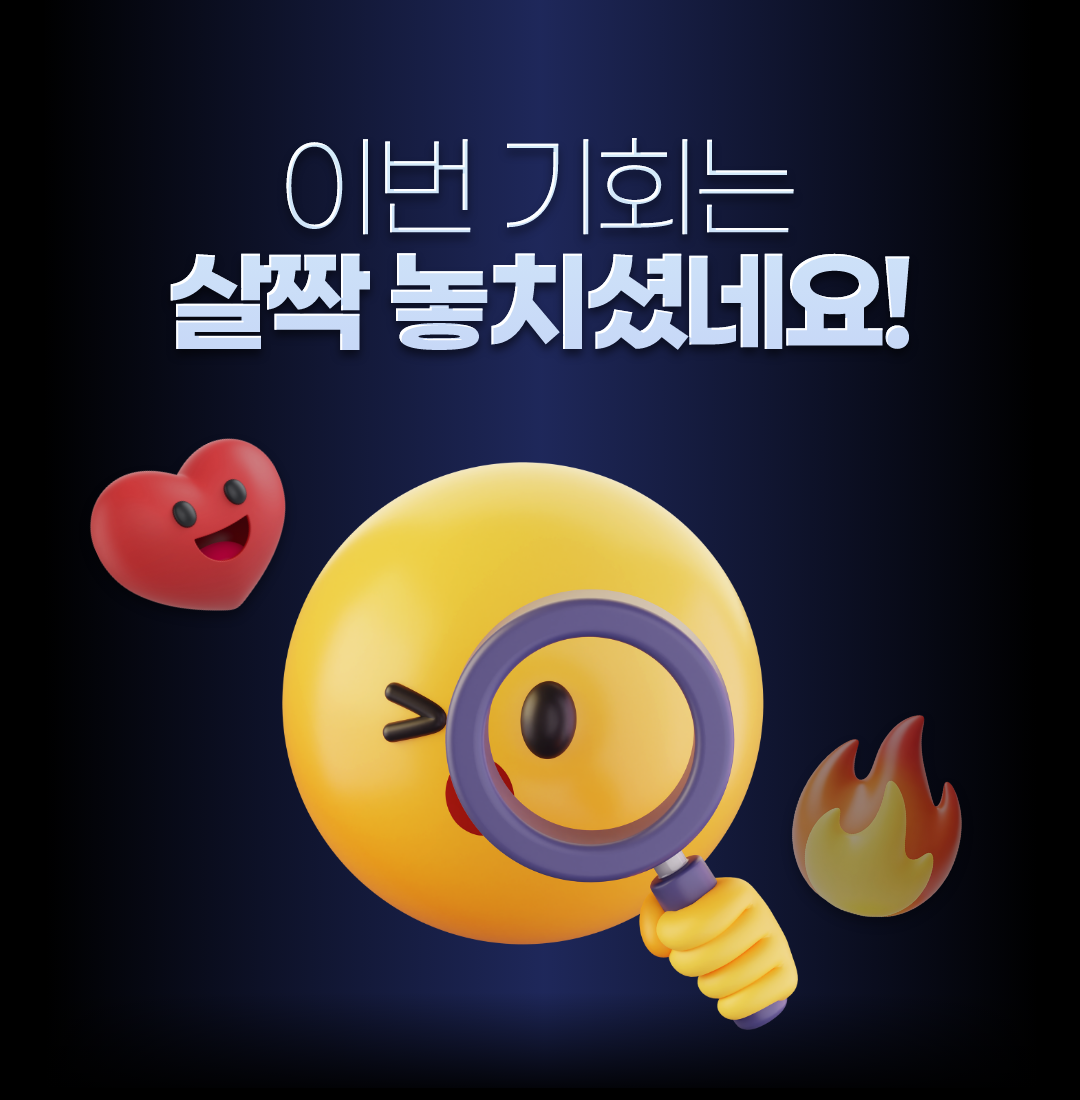
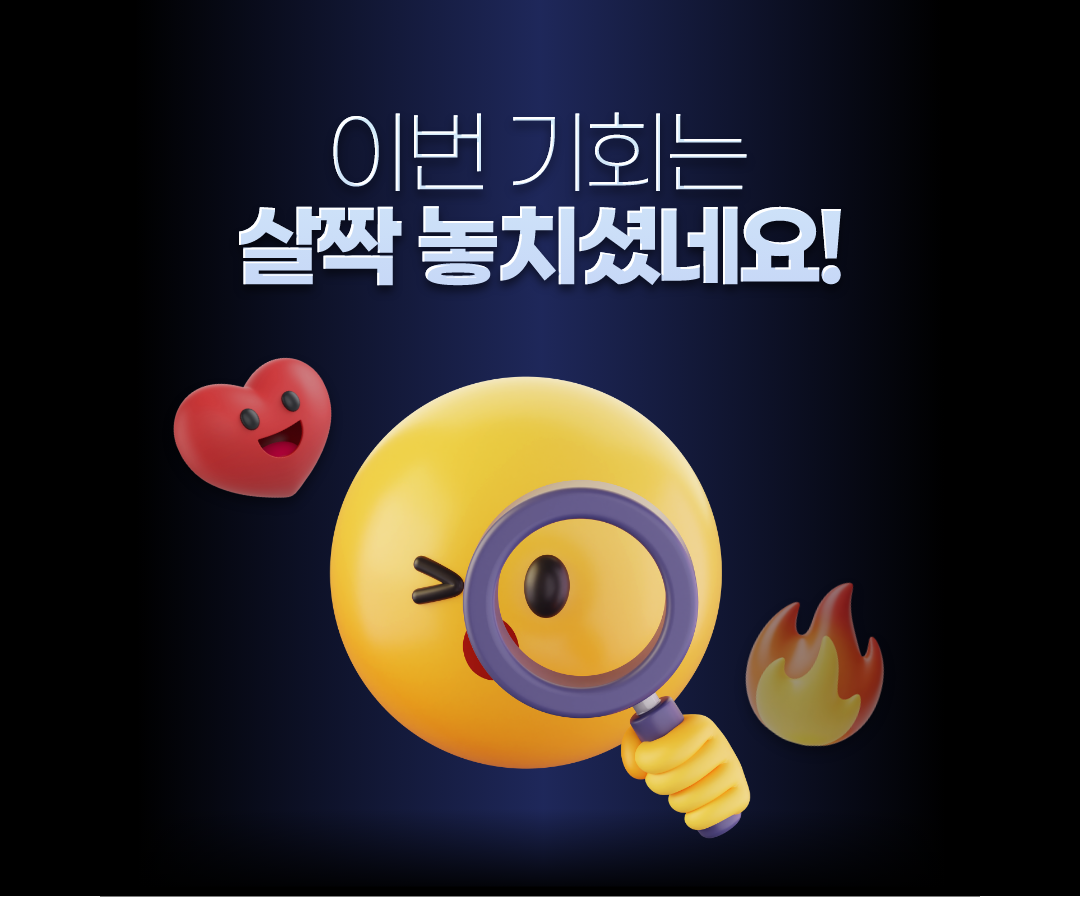
미참여, 미등록 이미지 수정 및 텍스트 수정. 상단 css 수정.

diff --git a/event/ev_250826_passpay_complete/html/ev_review_250826_4.html b/event/ev_250826_passpay_complete/html/ev_review_250826_4.html
@@ -29,7 +29,7 @@
 		.ev_240730 {background-color:#fff; overflow:hidden; font-family:'Pretendard','pretendard', serif;}
 		.ev_240730 img {vertical-align:top; border:0; max-width:100%;}
 		.ev_240730 div {position:relative;}
-		.ev_240730 div.top {min-height:31em; padding:0 0 2.08333em; background-color:#000; color:#fff;}
+		.ev_240730 div.top {/* min-height:31em; padding:0 0 2.08333em; */ background-color:#000; color:#fff;}
 
 		.result_type_item {position:relative;}
 		.result_type_item span.deco {position:absolute; top:4.79166em; right:0; width:20.91666em; height:12.20833em; background:url('../images/bg_win_deco.png') no-repeat left top / contain; transform-origin:50% 100%;
@@ -121,7 +121,7 @@
 		/* // 당첨 결과 이미지 */
 
 		/* 기프트샵 확인 방법 */
-		.gitfshop_wrap {margin-top:1.375em; padding:0 1.66666em;}
+		.gitfshop_wrap {margin-top:1.375em; padding:0 1.66666em 2.08333em;}
 		.gitfshop_wrap .gitfshop_box {padding:1.66666em 0; border-radius:0.83333em; background-color: #fff; text-align:center;}
 		.gitfshop_wrap .gitfshop_box span.img {display:inline-block; width:2.94791em; height:2.94791em;}
 		.gitfshop_wrap .gitfshop_box p.tit {padding:0.95833em 0 0.54166em;}
@@ -175,22 +175,7 @@
 				<div class="result_type">
 					<div class="result_type_item"><img src="../images/bg_miss.png" alt="이번 기회는 살짝 놓치셨네요!" /></div>
 				</div>
-				<!-- // result_type -->
-
-				<div class="result_wrap">
-					<div class="result_txt_list">
-						<!-- 꽝 문구 -->
-						<div class="result_txt_item">
-							<p class="txt">
-								<span>이번 이벤트에 참여하지 않으셨어요.</span>
-								<strong>다음 기회엔 꼭 함께해요!</strong>
-							</p>
-						</div>
-					</div>
-					<!-- // result_txt -->
-				</div>
-				<!-- // result_wrap -->
-				 
+				<!-- // result_type --> 
 			</div>
 			<!-- // top -->
 

diff --git a/event/ev_250826_passpay_complete/html/ev_review_250826_3.html b/event/ev_250826_passpay_complete/html/ev_review_250826_3.html
@@ -29,7 +29,7 @@
 		.ev_240730 {background-color:#fff; overflow:hidden; font-family:'Pretendard','pretendard', serif;}
 		.ev_240730 img {vertical-align:top; border:0; max-width:100%;}
 		.ev_240730 div {position:relative;}
-		.ev_240730 div.top {min-height:31em; padding:0 0 2.08333em; background-color:#000; color:#fff;}
+		.ev_240730 div.top {/* min-height:31em; padding:0 0 2.08333em; */ background-color:#000; color:#fff;}
 
 		.result_type_item {position:relative;}
 		.result_type_item span.deco {position:absolute; top:4.79166em; right:0; width:20.91666em; height:12.20833em; background:url('../images/bg_win_deco.png') no-repeat left top / contain; transform-origin:50% 100%;
@@ -121,7 +121,7 @@
 		/* // 당첨 결과 이미지 */
 
 		/* 기프트샵 확인 방법 */
-		.gitfshop_wrap {margin-top:1.375em; padding:0 1.66666em;}
+		.gitfshop_wrap {margin-top:1.375em; padding:0 1.66666em 2.08333em;}
 		.gitfshop_wrap .gitfshop_box {padding:1.66666em 0; border-radius:0.83333em; background-color: #fff; text-align:center;}
 		.gitfshop_wrap .gitfshop_box span.img {display:inline-block; width:2.94791em; height:2.94791em;}
 		.gitfshop_wrap .gitfshop_box p.tit {padding:0.95833em 0 0.54166em;}
@@ -176,21 +176,6 @@
 					<div class="result_type_item"><img src="../images/bg_not.png" alt="아쉽게도 당첨되지 않았어요" /></div>
 				</div>
 				<!-- // result_type -->
-
-				<div class="result_wrap">
-					<div class="result_txt_list">
-						<!-- 꽝 문구 -->
-						<div class="result_txt_item">
-							<p class="txt">
-								<span>하지만 걱정 마세요!</span>
-								<strong>다음 기회엔 더 좋은 결과가 기다릴 거예요</strong>
-							</p>
-						</div>
-					</div>
-					<!-- // result_txt -->
-				</div>
-				<!-- // result_wrap -->
-				 
 			</div>
 			<!-- // top -->
 

diff --git a/event/ev_250826_passpay_complete/html/ev_review_250826_1.html b/event/ev_250826_passpay_complete/html/ev_review_250826_1.html
@@ -29,7 +29,7 @@
 		.ev_240730 {background-color:#fff; overflow:hidden; font-family:'Pretendard','pretendard', serif;}
 		.ev_240730 img {vertical-align:top; border:0; max-width:100%;}
 		.ev_240730 div {position:relative;}
-		.ev_240730 div.top {min-height:31em; padding:0 0 2.08333em; background-color:#000; color:#fff;}
+		.ev_240730 div.top {/* min-height:31em; padding:0 0 2.08333em; */ background-color:#000; color:#fff;}
 
 		.result_type_item {position:relative;}
 		.result_type_item span.deco {position:absolute; top:4.79166em; right:0; width:20.91666em; height:12.20833em; background:url('../images/bg_win_deco.png') no-repeat left top / contain; transform-origin:50% 100%;
@@ -121,7 +121,7 @@
 		/* // 당첨 결과 이미지 */
 
 		/* 기프트샵 확인 방법 */
-		.gitfshop_wrap {margin-top:1.375em; padding:0 1.66666em;}
+		.gitfshop_wrap {margin-top:1.375em; padding:0 1.66666em 2.08333em;}
 		.gitfshop_wrap .gitfshop_box {padding:1.66666em 0; border-radius:0.83333em; background-color: #fff; text-align:center;}
 		.gitfshop_wrap .gitfshop_box span.img {display:inline-block; width:2.94791em; height:2.94791em;}
 		.gitfshop_wrap .gitfshop_box p.tit {padding:0.95833em 0 0.54166em;}

diff --git a/event/ev_250826_passpay_complete/html/ev_review_250826_2.html b/event/ev_250826_passpay_complete/html/ev_review_250826_2.html
@@ -29,7 +29,7 @@
 		.ev_240730 {background-color:#fff; overflow:hidden; font-family:'Pretendard','pretendard', serif;}
 		.ev_240730 img {vertical-align:top; border:0; max-width:100%;}
 		.ev_240730 div {position:relative;}
-		.ev_240730 div.top {min-height:31em; padding:0 0 2.08333em; background-color:#000; color:#fff;}
+		.ev_240730 div.top {/* min-height:31em; padding:0 0 2.08333em; */ background-color:#000; color:#fff;}
 
 		.result_type_item {position:relative;}
 		.result_type_item span.deco {position:absolute; top:4.79166em; right:0; width:20.91666em; height:12.20833em; background:url('../images/bg_win_deco.png') no-repeat left top / contain; transform-origin:50% 100%;
@@ -121,7 +121,7 @@
 		/* // 당첨 결과 이미지 */
 
 		/* 기프트샵 확인 방법 */
-		.gitfshop_wrap {margin-top:1.375em; padding:0 1.66666em;}
+		.gitfshop_wrap {margin-top:1.375em; padding:0 1.66666em 2.08333em;}
 		.gitfshop_wrap .gitfshop_box {padding:1.66666em 0; border-radius:0.83333em; background-color: #fff; text-align:center;}
 		.gitfshop_wrap .gitfshop_box span.img {display:inline-block; width:2.94791em; height:2.94791em;}
 		.gitfshop_wrap .gitfshop_box p.tit {padding:0.95833em 0 0.54166em;}

diff --git a/event/ev_250826_passpay_complete/html/ev_review_250826.html b/event/ev_250826_passpay_complete/html/ev_review_250826.html
@@ -29,7 +29,7 @@
 		.ev_240730 {background-color:#fff; overflow:hidden; font-family:'Pretendard','pretendard', serif;}
 		.ev_240730 img {vertical-align:top; border:0; max-width:100%;}
 		.ev_240730 div {position:relative;}
-		.ev_240730 div.top {min-height:31em; padding:0 0 2.08333em; background-color:#000; color:#fff;}
+		.ev_240730 div.top {/* min-height:31em;  */padding:0 0 2.08333em; background-color:#000; color:#fff;}ㄴ
 
 		.result_type_item {position:relative;}
 		.result_type_item span.deco {position:absolute; top:4.79166em; right:0; width:20.91666em; height:12.20833em; background:url('../images/bg_win_deco.png') no-repeat left top / contain; transform-origin:50% 100%;
